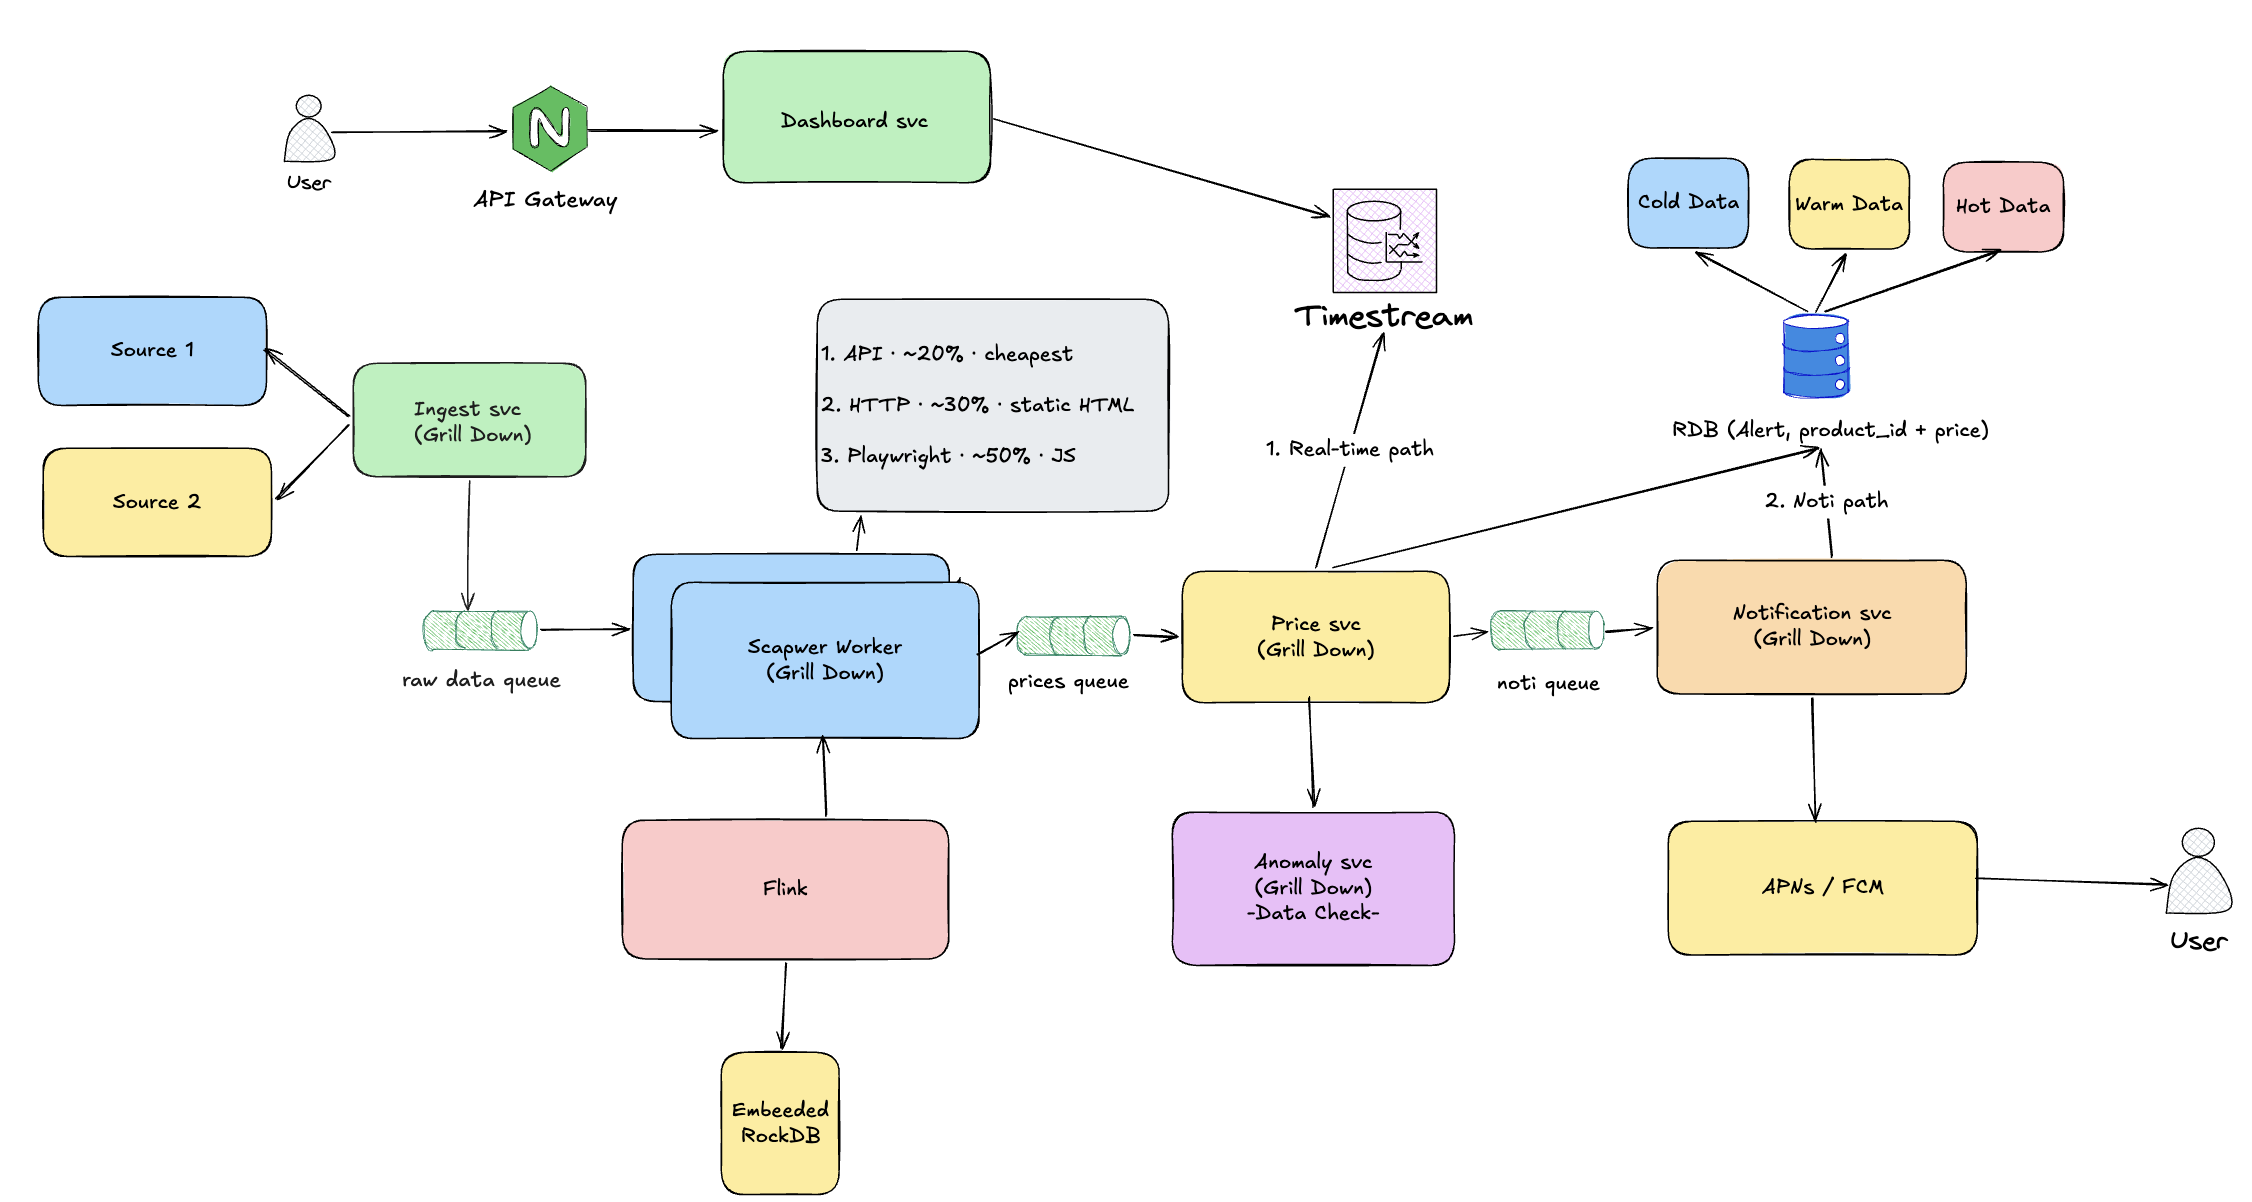
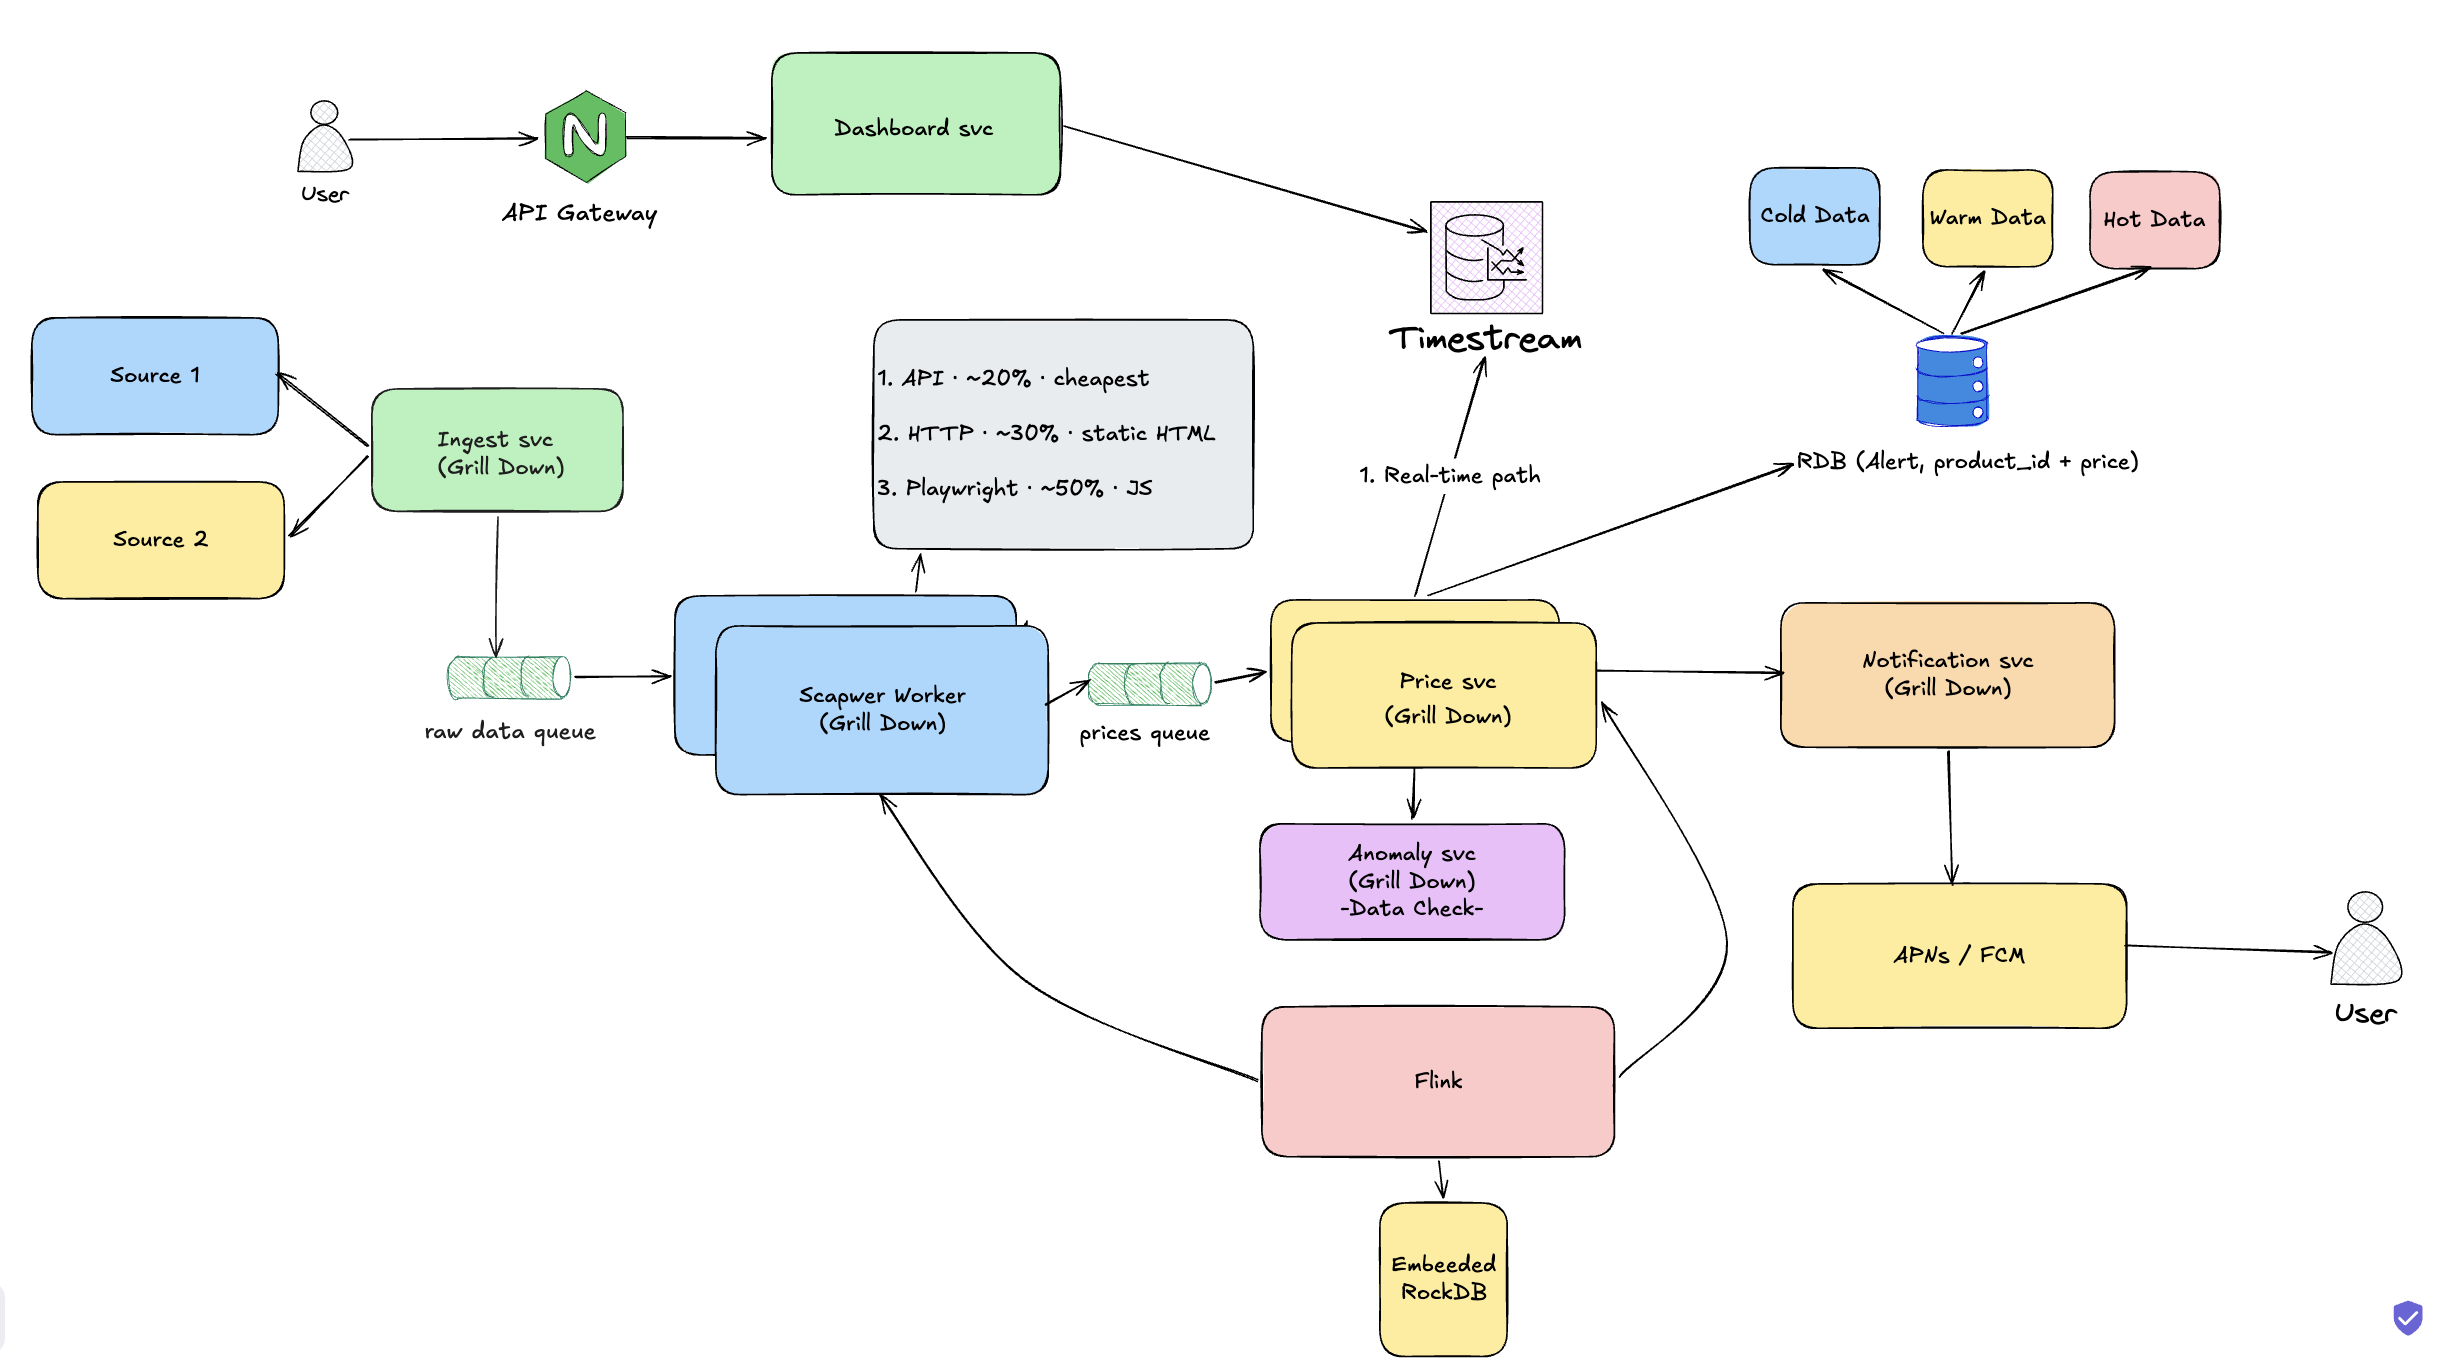
feat: add deploy

diff --git a/_posts/system-design-notes/2026-08-02-5fcfaafe.md b/_posts/system-design-notes/2026-08-02-5fcfaafe.md
@@ -20,3 +20,17 @@ Here is solutions for Design Price Tracking Service - Staff Dive Deep Design.
 ![](/images/Price-Tracking-Dive-Deep/knowledge-1.png)
 
 ![](/images/Price-Tracking-Dive-Deep/knowledge-2.png)
+
+# 4. Flow
+
+## 4.1. Step 1: Scrape flow
+
+![](/images/Price-Tracking-Dive-Deep/flow-1.png)
+
+## 4.2. Step 2: Validate + store - anomaly check before TimescaleDB
+
+![](/images/Price-Tracking-Dive-Deep/flow-2.png)
+
+## 4.3. Step 3: Alert flow
+
+![](/images/Price-Tracking-Dive-Deep/flow-3.png)
